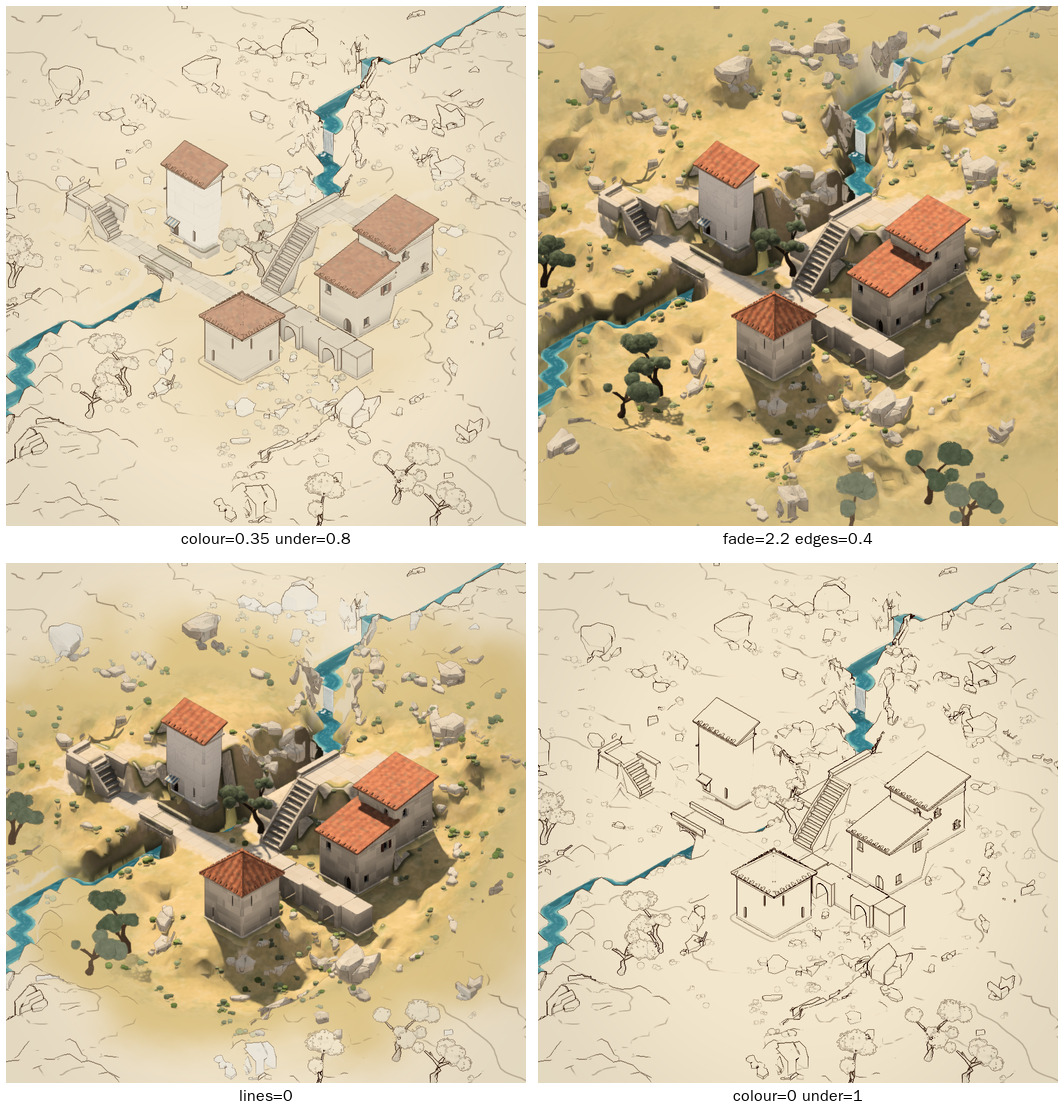
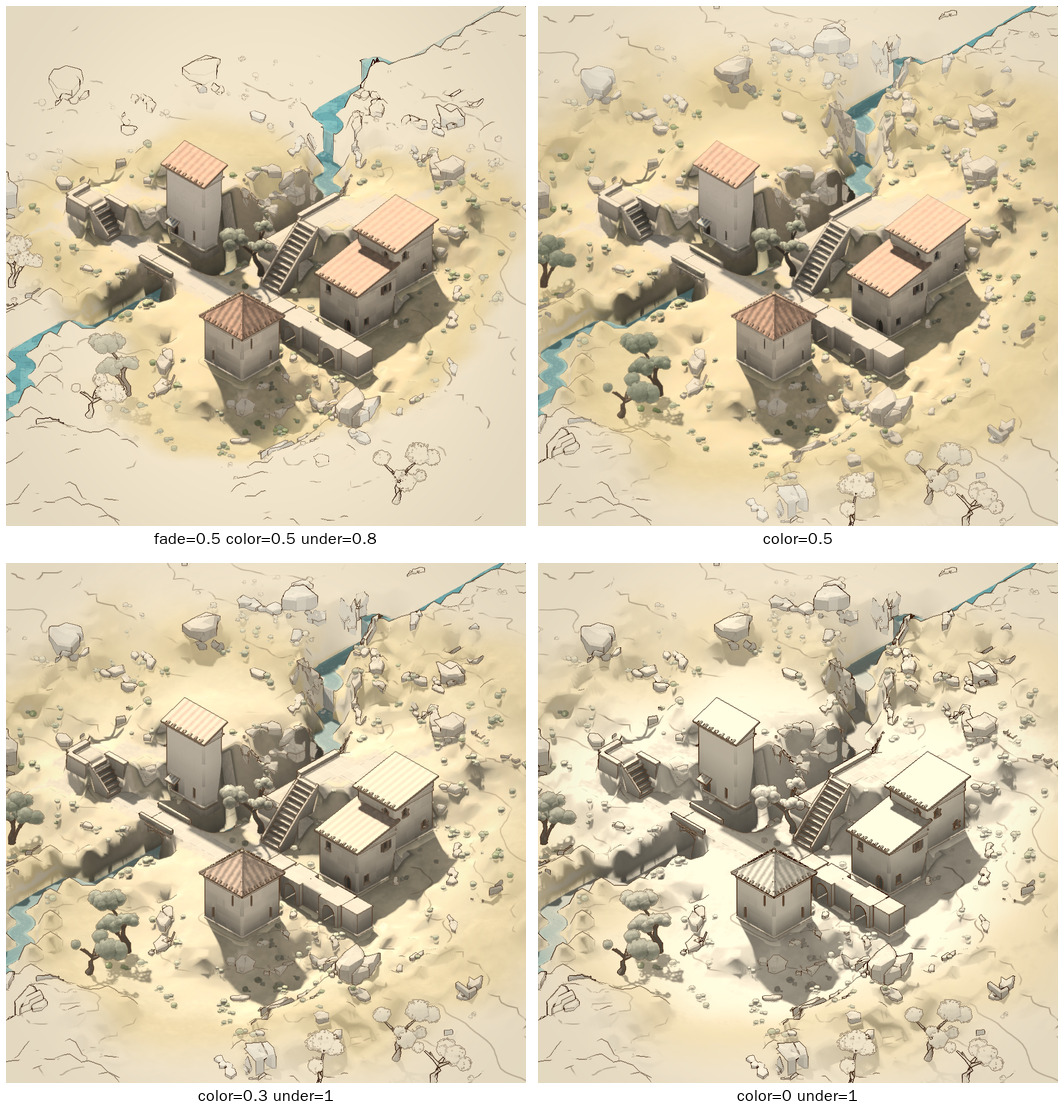
lab: labyrinth colour dial as a true layer opacity that keeps the light
?colour= made the picture fainter by taking it along its way to the
page, where the light goes first: shadows and occlusion vanished at 0.5.
It now fades the picture's colour to the paper while keeping its light
as shading (sun side, cast shadows, hollows), only where it's still a
picture.
- The old behaviour is now ?toward=.
- ?under= now means one thing across the marks, the land's contours and
  the outlines: how much of the drawing lies under the picture, showing
  through as colour drops (roughly under x (1 - colour)).

Claude-Session: https://claude.ai/code/session_01D2Nx3PayKJtFYoab5A57H3

diff --git a/cells/lab/client/labyrinth/render.ts b/cells/lab/client/labyrinth/render.ts
@@ -114,8 +114,9 @@ uniform highp sampler2DShadow uShadow; uniform highp sampler2D uShadowRaw; unifo
 // (the sun's map: how much of the world a texel of it covers, and how deep its range is, so its bias and its softness are
 // in the world's own units whatever it's fitted to)
 uniform float uTexel, uDepthRange, uMarks, uClay;
-// (\`?colour=\`: the picture's opacity, as how far it's given to the page (unset: none of it))
-uniform float uPale;
+// (\`?colour=\`: the picture's opacity over the page (unset: whole); \`?toward=\`: how far everything's taken along its way
+// to the page (unset: not at all))
+uniform float uPale, uToward, uUnder;
 layout(location=0) out vec4 oCol; layout(location=1) out vec4 oNrm;
 float leafEdge(vec3 n) { float rim = 1. - abs(dot(n, normalize(uDir))); return .8 * pow(rim, 1.6) - .08; }
 float hash(vec3 p) { return fract(sin(dot(p, vec3(127.1, 311.7, 74.7))) * 43758.5453); }
@@ -260,7 +261,7 @@ void main() {
     // (a little uneven, no more: over a broad fade, patches of more and less picture would lie on it as clouds)
     gT = R0 + (fbm(vec3(at.xz * .9, 5.)) - .5) * .08 * rg + rate * rg;
     if (uPaper > .5) gT = .08;
-    gT *= 1. - uPale;
+    gT *= 1. - uToward;
   }
   gDetail = smoothstep(.5, .85, gT);
   // (a crown cut through more as it's drawn, so its limbs show and it reads as drawn canopy)
@@ -523,6 +524,9 @@ void main() {
   c = xc * (L1 / L0);
   c = mix(c, vec3(L1), smoothstep(.55, 1., L1) * .35);
   c = pow(clamp(c, 0., 1.), vec3(1. / 2.2));
+  // (how much the light makes of it, as it's seen: lighter or darker than its own colour (the sun, the shade cast on it,
+  // the sky it sees): kept, when the picture's made fainter over the page, as the shading on the paper)
+  float litShade = clamp(dot(c, vec3(.3, .55, .15)) / max(dot(base, vec3(.3, .55, .15)), .05), 0., 1.12);
   // (a lamp: lit from within)
   if (mat == 9) c = vec3(1., .86, .58);
   if (mat == 2) {
@@ -570,6 +574,8 @@ void main() {
   vec3 PAP = vec3(.95, .90, .80);
   float drawn = 0.;
   vec3 washC = c;
+  // (the land's own lines (its contours), kept apart, so they can show under a fainter picture (\`?under=\`))
+  vec3 landInk = vec3(1.);
   if (onPaper && !sel && !fur) {
     drawn = 1. - smoothstep(.05, .9, gT);
     float L = dot(c, vec3(.3, .55, .15));
@@ -624,7 +630,8 @@ void main() {
       g = mix(g, vec3(.38, .3, .22), cl * (.45 + .25 * heavy));
     }
     g = mix(PAP, g, .72);
-    c = washC * mix(vec3(1.), g / PAP, smoothstep(.15, .7, drawn));
+    landInk = g / PAP;
+    c = washC * mix(vec3(1.), landInk, smoothstep(.15, .7, drawn));
   }
   else if (onPaper && mat == 2 && !fur) {
     // (the stream, away from what's built: its water laid in broken strokes along it, then only a line or two)
@@ -651,6 +658,13 @@ void main() {
   // (what's taken up: a faint warm tint; its outline is drawn after, where the mask changes)
   if (sel) c = mix(c, c * vec3(1.1, .98, .84) + vec3(.05, .025, 0.), .6);
   if (uMarks > .5) c = mix(c, PAP, .82);
+  // (\`?colour=\`: the picture fainter over the page, as a layer: its colour given to the paper, its light kept there as
+  // shading (the sun's side, the shadows cast, the hollows), only where it's still a picture: what's drawn stays drawn)
+  // (and under it, as much of the drawing as \`?under=\` lays there, showing as the picture's made fainter over it)
+  if (uPale > 0. && !sel && !fur) {
+    c = mix(c, PAP * mix(1., litShade, .9), uPale * (1. - drawn));
+    c *= mix(vec3(1.), landInk, uPale * uUnder * (1. - smoothstep(.15, .7, drawn)));
+  }
   oCol = vec4(c, 1.);
   // (its kind for the post pass, and within each how far it's drawn: land .12–.38, the rest .41–.47, leaves .49–.54)
   oNrm = vec4(n * .5 + .5, sel ? 1. : land ? .12 + .26 * drawn : fur ? .6 : mat == 3 ? .49 + .05 * drawn : .41 + .06 * drawn);
@@ -699,8 +713,8 @@ const STROKE_FS = COMMON + REACH + `
 in vec3 vPos; in vec2 vSA; in vec3 vFam; in float vKeep;
 uniform float uMarks;
 // (\`?colour=\`, as in the picture; \`?lines=\`: the marks' opacity (as how much is taken off it); \`?under=\`: how much of the
-// drawing's lines carry on under the picture, where it's whole (unset: only the marks that keep there anyway))
-uniform float uPale, uLinesOff, uUnder;
+// drawing lies under the picture, showing through as \`?colour=\` makes it fainter (unset: only the marks that keep there anyway))
+uniform float uPale, uToward, uLinesOff, uUnder;
 layout(location=0) out vec4 oCol; layout(location=1) out vec4 oNrm;
 float hash(vec3 p) { return fract(sin(dot(p, vec3(127.1, 311.7, 74.7))) * 43758.5453); }
 float noise(vec3 x) { vec3 i = floor(x), f = fract(x); f = f * f * (3. - 2. * f);
@@ -710,11 +724,13 @@ void main() {
   float across = vSA.x, fam = floor(vFam.x + .001), weight = fract(vFam.x + .001), persist = vFam.y, pick = vFam.z;
   // (a branch line goes with its tree: left out where the tree is, by the tree's own chance)
   if (fam > 13.5 && fam < 14.5 ? pick > reachLines(vPos) * 1.25 - .08 : (pick > reachLines(vPos) * 1.3 - .05 || pick > vKeep)) discard;
-  float R0 = reach(vPos), t = (R0 + (noise(vec3(vPos.xz * .9, 5.)) - .5) * .08 * min(1., R0 * 4.)) * (1. - uPale), drawn = 1. - smoothstep(.05, .9, t);
+  float R0 = reach(vPos), t = (R0 + (noise(vec3(vPos.xz * .9, 5.)) - .5) * .08 * min(1., R0 * 4.)) * (1. - uToward), drawn = 1. - smoothstep(.05, .9, t);
+  // (the marks under the picture come up as it's made fainter over them: the line layer beneath, showing through)
+  float shows = 1. - (1. - drawn) * (1. - uPale * uUnder);
   float aa = max(fwidth(across), 1e-4);
   float cov = (1. - smoothstep(1. - aa, 1. + aa * .5, abs(across))) * min(1., 2. / aa);
   float dry = smoothstep(.18, .32, noise(vec3(vPos.xz * 7.5 + vPos.y * 3., fam * 3.1)));
-  float a = cov * weight * mix(.55, 1., dry) * (uMarks > .5 ? 1.2 : mix(max(persist, uUnder), 1., drawn)) * (1. - uLinesOff);
+  float a = cov * weight * mix(.55, 1., dry) * (uMarks > .5 ? 1.2 : mix(persist, 1., shows)) * (1. - uLinesOff);
   if (a < .02) discard;
   // (the land's in sepia; the water's a cooler ink)
   vec3 col = fam > 4.5 && fam < 8.5 ? vec3(.2, .27, .3) : vec3(.26, .19, .13);
@@ -725,7 +741,7 @@ const POST_VS = `#version 300 es
 out vec2 vUv; void main() { vec2 p = vec2(gl_VertexID == 1 ? 3. : -1., gl_VertexID == 2 ? 3. : -1.); vUv = p * .5 + .5; gl_Position = vec4(p, 0., 1.); }`;
 const POST_FS = `#version 300 es
 precision highp float;
-in vec2 vUv; uniform sampler2D uCol, uNrm, uDepth; uniform vec2 uPx; uniform float uRange, uPrint, uDpr, uBleed, uWorldPx, uContact, uMarks, uAA, uClay, uEdgesOff; uniform mat3 uViewRot;
+in vec2 vUv; uniform sampler2D uCol, uNrm, uDepth; uniform vec2 uPx; uniform float uRange, uPrint, uDpr, uBleed, uWorldPx, uContact, uMarks, uAA, uClay, uEdgesOff, uPale, uUnder; uniform mat3 uViewRot;
 out vec4 o;
 // (the edges smoothed where nothing's multisampled: the colour's luma across the pixel's corners says which way an edge
 // runs, and it's sampled along it (FXAA, after Lottes), kept only where it stays within the luma round it)
@@ -806,6 +822,8 @@ void main() {
   // lightest, its crown's outline a hint, not a ring round each part of it)
   bool leafM = m > .485 && m < .545;
   float drawn = bleedOn() < .5 ? 0. : m > .405 && m < .475 ? clamp((m - .41) / .06, 0., 1.) : leafM ? clamp((m - .49) / .05, 0., 1.) : m > .1 && m < .4 ? clamp((m - .12) / .26, 0., 1.) : 0.;
+  // (the outlines under the picture (\`?under=\`), coming through as it's made fainter (\`?colour=\`))
+  if (bleedOn() > .5 && m > .1 && m < .6) drawn = 1. - (1. - drawn) * (1. - uPale * uUnder);
   float fold = smoothstep(.04, .14, lap), crease = smoothstep(.3, .6, turn);
   float wt = (furOn > .5 ? .4 : leafM ? mix(.06, .2, drawn) : mix(.16, .8, drawn)) * fold * (1. - onLand) + (leafM ? 0. : crease * drawn * .6) * (1. - onLand);
   wt = max(wt, onLand * smoothstep(.2, .5, lap) * mix(.12, .55, drawn));
@@ -877,9 +895,10 @@ export class Renderer {
   marks = false;
   /** \`?clay\`: every surface one clay, no paper, no ink: the forms alone */
   clay = false;
-  /** the dials (\`?colour= ?fade= ?lines= ?under= ?edges=\`): the picture's opacity, how far its way to the page runs (a
-   * multiple), the marks' opacity, how much of the line layer carries on under the picture, the outline ink's opacity */
-  dials = { colour: 1, fade: 1, lines: 1, under: 0, edges: 1 };
+  /** the dials (\`?colour= ?toward= ?fade= ?lines= ?under= ?edges=\`): the picture's opacity over the page (its light kept as
+   * shading), how far everything's taken along its way to the page, how far that way runs (a multiple), the marks'
+   * opacity, how much of the line layer carries on under the picture, the outline ink's opacity */
+  dials = { colour: 1, toward: 0, fade: 1, lines: 1, under: 0, edges: 1 };
   private vao: WebGLVertexArrayObject; private buf: WebGLBuffer; private count = 0;
   /** the ground's own (mesh.ts keeps it from one build to the next while nothing it reads changes): handed to the GPU
    * only when it's new */
@@ -1106,7 +1125,7 @@ export class Renderer {
     gl.uniformMatrix4fv(U('uVP'), false, cam.vp); gl.uniformMatrix4fv(U('uLight'), false, light);
     gl.uniform1f(U('uTime'), time); gl.uniform3fv(U('uSun'), this.sun); gl.uniform3fv(U('uEye'), cam.eye); gl.uniform3fv(U('uDir'), cam.dir); gl.uniform1f(U('uN'), 12); gl.uniform3fv(U('uArea'), this.area); gl.uniform1f(U('uShadows'), this.shadows ? 1 : 0); gl.uniform1f(U('uBleed'), this.bleed ? 1 : 0); gl.uniform1f(U('uPaper'), this.print ? 1 : 0); gl.uniform4fv(U('uLand'), this.landBox); this.bindFocus(this.main);
     gl.uniform1f(U('uTexel'), this.shadowTexel); gl.uniform1f(U('uDepthRange'), this.shadowRange);
-    gl.uniform1f(U('uLeafCut'), this.leafCut ? 1 : 0); gl.uniform1f(U('uMarks'), this.marks ? 1 : 0); gl.uniform1f(U('uClay'), this.clay ? 1 : 0); gl.uniform1f(U('uPale'), 1 - this.dials.colour);
+    gl.uniform1f(U('uLeafCut'), this.leafCut ? 1 : 0); gl.uniform1f(U('uMarks'), this.marks ? 1 : 0); gl.uniform1f(U('uClay'), this.clay ? 1 : 0); gl.uniform1f(U('uPale'), 1 - this.dials.colour); gl.uniform1f(U('uToward'), this.dials.toward); gl.uniform1f(U('uUnder'), this.dials.under);
     gl.activeTexture(gl.TEXTURE0); gl.bindTexture(gl.TEXTURE_2D, this.shadowTex); gl.bindSampler(0, this.sCompare); gl.uniform1i(U('uShadow'), 0);
     gl.activeTexture(gl.TEXTURE3); gl.bindTexture(gl.TEXTURE_2D, this.shadowTex); gl.bindSampler(3, this.sRaw); gl.uniform1i(U('uShadowRaw'), 3);
     gl.drawArrays(gl.TRIANGLES, 0, this.count);
@@ -1118,7 +1137,7 @@ export class Renderer {
       const S = (n: string) => gl.getUniformLocation(this.stroke, n);
       gl.uniformMatrix4fv(S('uVP'), false, cam.vp); gl.uniform1f(S('uMarks'), this.marks ? 1 : 0); gl.uniform2f(S('uView'), w, h); gl.uniform1f(S('uDpr'), dpr); gl.uniform3fv(S('uDir'), cam.dir);
       gl.uniform1f(S('uBleed'), this.bleed ? 1 : 0); gl.uniform1f(S('uPaper'), this.print ? 1 : 0); gl.uniform4fv(S('uLand'), this.landBox); this.bindFocus(this.stroke);
-      gl.uniform1f(S('uPale'), 1 - this.dials.colour); gl.uniform1f(S('uLinesOff'), 1 - this.dials.lines); gl.uniform1f(S('uUnder'), this.dials.under);
+      gl.uniform1f(S('uPale'), 1 - this.dials.colour); gl.uniform1f(S('uToward'), this.dials.toward); gl.uniform1f(S('uLinesOff'), 1 - this.dials.lines); gl.uniform1f(S('uUnder'), this.dials.under);
       gl.bindVertexArray(this.svao);
       gl.enable(gl.BLEND); gl.blendFunc(gl.SRC_ALPHA, gl.ONE_MINUS_SRC_ALPHA); gl.depthMask(false); gl.disable(gl.CULL_FACE);
       gl.enable(gl.POLYGON_OFFSET_FILL); gl.polygonOffset(-2, -4);
@@ -1148,7 +1167,7 @@ export class Renderer {
     gl.activeTexture(gl.TEXTURE1); gl.bindTexture(gl.TEXTURE_2D, this.nrm); gl.uniform1i(P('uNrm'), 1);
     gl.activeTexture(gl.TEXTURE2); gl.bindTexture(gl.TEXTURE_2D, this.dep); gl.uniform1i(P('uDepth'), 2);
     gl.uniform2f(P('uPx'), 1 / w, 1 / h); gl.uniform1f(P('uRange'), cam.range); gl.uniform1f(P('uPrint'), this.print ? 1 : 0); gl.uniform1f(P('uMarks'), this.marks ? 1 : 0); gl.uniform1f(P('uClay'), this.clay ? 1 : 0); gl.uniform1f(P('uDpr'), dpr); gl.uniform1f(P('uBleed'), this.bleed ? 1 : 0); gl.uniform1f(P('uAA'), this.ms ? 0 : 1);
-    gl.uniform1f(P('uWorldPx'), (2 * view.zoom) / h); gl.uniform1f(P('uContact'), this.contact ? 1 : 0); gl.uniform1f(P('uEdgesOff'), 1 - this.dials.edges);
+    gl.uniform1f(P('uWorldPx'), (2 * view.zoom) / h); gl.uniform1f(P('uContact'), this.contact ? 1 : 0); gl.uniform1f(P('uEdgesOff'), 1 - this.dials.edges); gl.uniform1f(P('uPale'), 1 - this.dials.colour); gl.uniform1f(P('uUnder'), this.dials.under);
     gl.uniformMatrix3fv(P('uViewRot'), false, cam.rot);
     gl.drawArrays(gl.TRIANGLES, 0, 3);
     end();

diff --git a/cells/lab/client/labyrinth/main.ts b/cells/lab/client/labyrinth/main.ts
@@ -11,7 +11,7 @@
  *
  * `?story=1..4` (the storyboard: first touch, a wall traced, an elevated connection, a resolved labyrinth) ·
  * `?ops=` (operations, as the model writes them) · `?brush=` · `?sheet` · `?select=k.i.j[&whole]` · `?print` · `?marks` (the drawing's marks by why they're there) · `?turn=` ·
- * `?zoom=` · `?preview` · `?still` · `?held` (the view never reframes on its own) · `?colour= ?fade= ?lines= ?under= ?edges=` (the dials: picture and drawing, judged apart) · `?instant` (no rising, no gliding, no dust, no cats: for pictures taken by a slow
+ * `?zoom=` · `?preview` · `?still` · `?held` (the view never reframes on its own) · `?colour= ?toward= ?fade= ?lines= ?under= ?edges=` (the dials: picture and drawing, judged apart) · `?instant` (no rising, no gliding, no dust, no cats: for pictures taken by a slow
  * renderer, where every transition is frames it hasn't time for)
  */
 import { CENTER, World, inGrid, key, replay, unkey, type Alt, type Cell, type Op } from './model';
@@ -37,12 +37,13 @@ const R = new Renderer(canvas);
 R.print = qs.has('print');
 R.marks = qs.has('marks');
 R.clay = qs.has('clay');
-// (the dials, to judge the picture and the drawing apart: `?colour=` (or `color`) 0–1 the picture's opacity, `?fade=` how
+// (the dials, to judge the picture and the drawing apart: `?colour=` (or `color`) 0–1 the picture's opacity over the page,
+// its light kept as shading; `?toward=` 0–1 how far everything's taken along its way to the page; `?fade=` how
 // far its way to the page runs (a multiple), `?lines=` 0–1 the marks', `?under=` 0–1 how much of the line layer carries
 // on under the picture, `?edges=` 0–1 the outline ink's)
 {
   const dial = (k: string, lo: number, hi: number) => { const v = Number(qs.get(k)); return qs.has(k) && Number.isFinite(v) ? Math.min(hi, Math.max(lo, v)) : null; };
-  R.dials = { colour: dial('colour', 0, 1) ?? dial('color', 0, 1) ?? 1, fade: dial('fade', 0.1, 10) ?? 1, lines: dial('lines', 0, 1) ?? 1, under: dial('under', 0, 1) ?? 0, edges: dial('edges', 0, 1) ?? 1 };
+  R.dials = { colour: dial('colour', 0, 1) ?? dial('color', 0, 1) ?? 1, toward: dial('toward', 0, 1) ?? 0, fade: dial('fade', 0.1, 10) ?? 1, lines: dial('lines', 0, 1) ?? 1, under: dial('under', 0, 1) ?? 0, edges: dial('edges', 0, 1) ?? 1 };
 }
 R.shadows = !qs.has('noshadow');
 // (the land as Taohua draws its hill: the open ground the paper itself, only its features drawn, bleeding into the page,

diff --git a/cells/lab/static/labyrinth-look.md b/cells/lab/static/labyrinth-look.md
@@ -195,13 +195,14 @@ URL dials for looking at the layers separately. With none set, the look is uncha
 
 | Dial | Range | What it does |
 |---|---|---|
-| `colour` (or `color`) | 0–1, default 1 | How much of the coloured picture stays. Lower moves everything along its own way to the page: trees first, then the ground and the water, then what's built. So at 0.35 the land is mostly paper while the buildings keep a wash; at 0 it's all drawing. |
-| `fade` | ×0.1–10, default 1 | How far that way to the page runs: a multiple of the picture's falloff and the lines' reach. 2 spreads the colour twice as wide round what's built. |
+| `colour` (or `color`) | 0–1, default 1 | The coloured picture's opacity over the page, as a layer. Its colour goes to the paper while its light stays as shading on the paper: the sun's side, cast shadows, the hollows. Where the scene is already drawn, it's left as it is. |
+| `toward` | 0–1, default 0 | How far everything is taken along its own way to the page: trees first, then the ground and the water, then what's built. The light goes first on that way, so shadows go with it. (This was `colour` before.) |
+| `fade` | ×0.1–10, default 1 | How far that way to the page runs: a multiple of the picture's falloff and the lines' reach. |
 | `lines` | 0–1, default 1 | The ink marks' opacity: rims, hachures, contours, banks, branches. |
-| `under` | 0–1, default 0 | How much of the line layer carries on under the picture, where it's whole. At 0 only the marks that always persist there remain. At 1 the full drawing runs through the coloured core. |
+| `under` | 0–1, default 0 | How much of the drawing lies under the picture (the marks, the land's contours, the outlines), showing through as `colour` makes the picture fainter. Roughly, what shows in the coloured core is `under × (1 − colour)`. |
 | `edges` | 0–1, default 1 | The outline ink's opacity (the post pass's silhouettes and creases). |
 
-Together: `?colour=0&under=1` is the scene as a line drawing; `?colour=0.35&under=0.8` shows the drawing coming up through the picture.
+Together: `?colour=0&under=1` is the scene as a drawing on shaded paper; `?colour=0.5&under=0.8` shows the drawing coming up through a half-faded picture, its shadows kept; `?toward=1` is the whole scene taken to the page.
 
 ## Stage 23: crags, broken ground, and what the sheet still asked for
 
